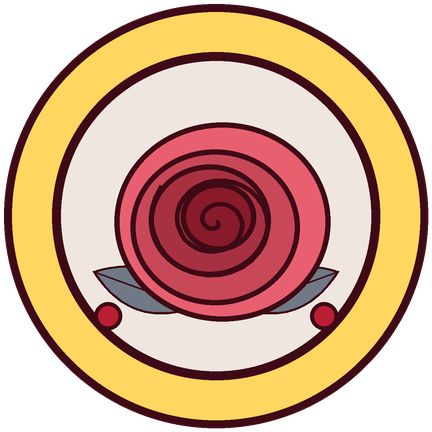
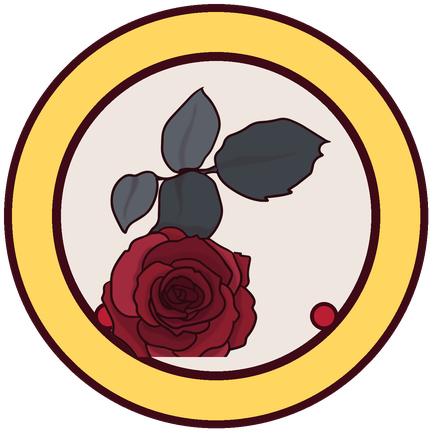
Added rose and emotes

Changed region(s): [[0.2106, 0.1806, 0.7824, 0.8426]]

diff --git a/index.html b/index.html
@@ -6251,6 +6251,18 @@
           "position": 392,
           "item": {
             "@type": "ImageObject",
+            "name": "Snake light2 (Emotes)",
+            "contentUrl": "https://petalsofiron.github.io/Seviath/images/twitch/Snake/Emotes/light2_448.png",
+            "creator": {
+              "@id": "https://petalsofiron.github.io/Seviath/#person"
+            }
+          }
+        },
+        {
+          "@type": "ListItem",
+          "position": 393,
+          "item": {
+            "@type": "ImageObject",
             "name": "Snake scale shine (Emotes)",
             "contentUrl": "https://petalsofiron.github.io/Seviath/images/twitch/Snake/Emotes/scale_shine_448.png",
             "creator": {
@@ -6260,7 +6272,7 @@
         },
         {
           "@type": "ListItem",
-          "position": 393,
+          "position": 394,
           "item": {
             "@type": "ImageObject",
             "name": "Snake shed skin (Emotes)",
@@ -6272,23 +6284,11 @@
         },
         {
           "@type": "ListItem",
-          "position": 394,
+          "position": 395,
           "item": {
             "@type": "ImageObject",
             "name": "Snake sun nap (Emotes)",
             "contentUrl": "https://petalsofiron.github.io/Seviath/images/twitch/Snake/Emotes/sun_nap_448.gif",
-            "creator": {
-              "@id": "https://petalsofiron.github.io/Seviath/#person"
-            }
-          }
-        },
-        {
-          "@type": "ListItem",
-          "position": 395,
-          "item": {
-            "@type": "ImageObject",
-            "name": "Snake tongue flick (Emotes)",
-            "contentUrl": "https://petalsofiron.github.io/Seviath/images/twitch/Snake/Emotes/tongue_flick_448.png",
             "creator": {
               "@id": "https://petalsofiron.github.io/Seviath/#person"
             }
@@ -6857,6 +6857,18 @@
               "@id": "https://petalsofiron.github.io/Seviath/#person"
             }
           }
+        },
+        {
+          "@type": "ListItem",
+          "position": 443,
+          "item": {
+            "@type": "ImageObject",
+            "name": "Rose  rose cut (Rose)",
+            "contentUrl": "https://petalsofiron.github.io/Seviath/images/twitch/Rose/_rose_cut.png",
+            "creator": {
+              "@id": "https://petalsofiron.github.io/Seviath/#person"
+            }
+          }
         }
       ]
     },
@@ -7284,7 +7296,7 @@
         <h3 class="gallery-title">Channel point icons</h3>
         <div class="btn-grid">
       <a class="proj-btn" href="images/twitch/channel_points_432.png?v=941bc53c" target="_blank" rel="noopener" title="Twitch channel point icon: Channel points">Channel points</a>
-      <a class="proj-btn" href="images/twitch/channel_points_rose_432.png?v=60feb45a" target="_blank" rel="noopener" title="Twitch channel point icon: Channel points rose">Channel points rose</a>
+      <a class="proj-btn" href="images/twitch/channel_points_rose_432.png?v=5872179d" target="_blank" rel="noopener" title="Twitch channel point icon: Channel points rose">Channel points rose</a>
       <a class="proj-btn" href="images/twitch/channel_points_star_432.png?v=82fb0205" target="_blank" rel="noopener" title="Twitch channel point icon: Channel points star">Channel points star</a>
       <a class="proj-btn" href="images/twitch/Floral/Points/points_bee_432.png?v=528c81ff" target="_blank" rel="noopener" title="Twitch channel point icon: Floral points bee">Floral points bee</a>
       <a class="proj-btn" href="images/twitch/Floral/Points/points_drop_432.png?v=ce8a2789" target="_blank" rel="noopener" title="Twitch channel point icon: Floral points drop">Floral points drop</a>
@@ -7365,7 +7377,7 @@
       <a class="proj-btn" href="images/twitch/Northbeam/Overlay/overlay_frame.png?v=88d35f0a" target="_blank" rel="noopener" title="Twitch stream overlay: Northbeam overlay frame">Northbeam overlay frame</a>
       <a class="proj-btn" href="images/twitch/Perfum/Overlay/overlay_frame.png?v=8344a1bb" target="_blank" rel="noopener" title="Twitch stream overlay: Perfum overlay frame">Perfum overlay frame</a>
       <a class="proj-btn" href="images/twitch/Purple/Overlay/purple_overlay_frame.png?v=a7251d08" target="_blank" rel="noopener" title="Twitch stream overlay: Purple overlay frame">Purple overlay frame</a>
-      <a class="proj-btn" href="images/twitch/Rose/Overlay/overlay_frame.png?v=521066d1" target="_blank" rel="noopener" title="Twitch stream overlay: Rose overlay frame">Rose overlay frame</a>
+      <a class="proj-btn" href="images/twitch/Rose/Overlay/overlay_frame.png?v=607b0754" target="_blank" rel="noopener" title="Twitch stream overlay: Rose overlay frame">Rose overlay frame</a>
       <a class="proj-btn" href="images/twitch/Slash/Overlay/overlay_frame.png?v=9e7ee7ee" target="_blank" rel="noopener" title="Twitch stream overlay: Slash overlay frame">Slash overlay frame</a>
       <a class="proj-btn" href="images/twitch/Snake/Overlay/overlay_frame.png?v=f4da9004" target="_blank" rel="noopener" title="Twitch stream overlay: Snake overlay frame">Snake overlay frame</a>
       <a class="proj-btn" href="images/twitch/Strikeline/Overlay/overlay_frame.png?v=cf4b267d" target="_blank" rel="noopener" title="Twitch stream overlay: Strikeline overlay frame">Strikeline overlay frame</a>
@@ -7380,14 +7392,14 @@
       <a class="proj-btn" href="images/twitch/Badges/3month_432.png?v=33b65604" target="_blank" rel="noopener" title="Twitch subscriber badge: 3 month">3 month</a>
       <a class="proj-btn" href="images/twitch/Badges/6month_432.png?v=35d747e4" target="_blank" rel="noopener" title="Twitch subscriber badge: 6 month">6 month</a>
       <a class="proj-btn" href="images/twitch/Badges/9month_432.png?v=272ed4e0" target="_blank" rel="noopener" title="Twitch subscriber badge: 9 month">9 month</a>
-      <a class="proj-btn" href="images/twitch/Badges/1year_432.png?v=3a0d2492" target="_blank" rel="noopener" title="Twitch subscriber badge: 1 year">1 year</a>
-      <a class="proj-btn" href="images/twitch/Badges/1_5year_432.png?v=70b6e759" target="_blank" rel="noopener" title="Twitch subscriber badge: 1.5 year">1.5 year</a>
-      <a class="proj-btn" href="images/twitch/Badges/2year_432.png?v=bb0c9e7e" target="_blank" rel="noopener" title="Twitch subscriber badge: 2 year">2 year</a>
-      <a class="proj-btn" href="images/twitch/Badges/2_5year_432.png?v=73f71535" target="_blank" rel="noopener" title="Twitch subscriber badge: 2.5 year">2.5 year</a>
-      <a class="proj-btn" href="images/twitch/Badges/3year_432.png?v=73f71535" target="_blank" rel="noopener" title="Twitch subscriber badge: 3 year">3 year</a>
-      <a class="proj-btn" href="images/twitch/Badges/3_5year_432.png?v=0bc9ffaf" target="_blank" rel="noopener" title="Twitch subscriber badge: 3.5 year">3.5 year</a>
-      <a class="proj-btn" href="images/twitch/Badges/4year_432.png?v=301eaa33" target="_blank" rel="noopener" title="Twitch subscriber badge: 4 year">4 year</a>
-      <a class="proj-btn" href="images/twitch/Badges/4_5year_432.png?v=e26e3e9c" target="_blank" rel="noopener" title="Twitch subscriber badge: 4.5 year">4.5 year</a>
+      <a class="proj-btn" href="images/twitch/Badges/1year_432.png?v=3a545b2d" target="_blank" rel="noopener" title="Twitch subscriber badge: 1 year">1 year</a>
+      <a class="proj-btn" href="images/twitch/Badges/1_5year_432.png?v=003f132c" target="_blank" rel="noopener" title="Twitch subscriber badge: 1.5 year">1.5 year</a>
+      <a class="proj-btn" href="images/twitch/Badges/2year_432.png?v=b7485c38" target="_blank" rel="noopener" title="Twitch subscriber badge: 2 year">2 year</a>
+      <a class="proj-btn" href="images/twitch/Badges/2_5year_432.png?v=bc85ae3b" target="_blank" rel="noopener" title="Twitch subscriber badge: 2.5 year">2.5 year</a>
+      <a class="proj-btn" href="images/twitch/Badges/3year_432.png?v=bc85ae3b" target="_blank" rel="noopener" title="Twitch subscriber badge: 3 year">3 year</a>
+      <a class="proj-btn" href="images/twitch/Badges/3_5year_432.png?v=fe42c7b2" target="_blank" rel="noopener" title="Twitch subscriber badge: 3.5 year">3.5 year</a>
+      <a class="proj-btn" href="images/twitch/Badges/4year_432.png?v=73893cdb" target="_blank" rel="noopener" title="Twitch subscriber badge: 4 year">4 year</a>
+      <a class="proj-btn" href="images/twitch/Badges/4_5year_432.png?v=73893cdb" target="_blank" rel="noopener" title="Twitch subscriber badge: 4.5 year">4.5 year</a>
       <a class="proj-btn" href="images/twitch/Floral/Badges/1year_432.png?v=764f8bca" target="_blank" rel="noopener" title="Twitch subscriber badge: Floral 1 year">Floral 1 year</a>
       <a class="proj-btn" href="images/twitch/Floral/Badges/2year_432.png?v=24a96247" target="_blank" rel="noopener" title="Twitch subscriber badge: Floral 2 year">Floral 2 year</a>
       <a class="proj-btn" href="images/twitch/Floral/Badges/3month_432.png?v=1eba15fc" target="_blank" rel="noopener" title="Twitch subscriber badge: Floral 3 month">Floral 3 month</a>
@@ -7481,8 +7493,8 @@
       <a class="proj-btn" href="images/twitch/Strikeline/Flair/tier3_flair_432.png?v=2e385617" target="_blank" rel="noopener" title="Twitch chat flair: Strikeline tier3 flair">Strikeline tier3 flair</a>
       <a class="proj-btn" href="images/twitch/Tessel/Flair/tier2_flair_432.png?v=33b426b3" target="_blank" rel="noopener" title="Twitch chat flair: Tessel tier2 flair">Tessel tier2 flair</a>
       <a class="proj-btn" href="images/twitch/Tessel/Flair/tier3_flair_432.png?v=7852c375" target="_blank" rel="noopener" title="Twitch chat flair: Tessel tier3 flair">Tessel tier3 flair</a>
-      <a class="proj-btn" href="images/twitch/Flair/tier2_flair_432.png?v=618cc4fe" target="_blank" rel="noopener" title="Twitch chat flair: Tier2 flair">Tier2 flair</a>
-      <a class="proj-btn" href="images/twitch/Flair/tier3_flair_432.png?v=0358e520" target="_blank" rel="noopener" title="Twitch chat flair: Tier3 flair">Tier3 flair</a>
+      <a class="proj-btn" href="images/twitch/Flair/tier2_flair_432.png?v=a2e38e25" target="_blank" rel="noopener" title="Twitch chat flair: Tier2 flair">Tier2 flair</a>
+      <a class="proj-btn" href="images/twitch/Flair/tier3_flair_432.png?v=50ae6ad7" target="_blank" rel="noopener" title="Twitch chat flair: Tier3 flair">Tier3 flair</a>
     </div>
         <h3 class="gallery-title">Starting soon screen</h3>
         <div class="btn-grid">
@@ -7492,7 +7504,7 @@
       <a class="proj-btn" href="images/twitch/Northbeam/Screens/starting_soon.png?v=bb77082c" target="_blank" rel="noopener" title="Twitch starting soon screen: Northbeam starting soon">Northbeam starting soon</a>
       <a class="proj-btn" href="images/twitch/Perfum/Screens/starting_soon.png?v=c049fc5a" target="_blank" rel="noopener" title="Twitch starting soon screen: Perfum starting soon">Perfum starting soon</a>
       <a class="proj-btn" href="images/twitch/Purple/Screens/starting_soon.png?v=b0d66def" target="_blank" rel="noopener" title="Twitch starting soon screen: Purple starting soon">Purple starting soon</a>
-      <a class="proj-btn" href="images/twitch/Rose/Screens/starting_soon.png?v=57f7db6e" target="_blank" rel="noopener" title="Twitch starting soon screen: Rose starting soon">Rose starting soon</a>
+      <a class="proj-btn" href="images/twitch/Rose/Screens/starting_soon.png?v=995f1e4c" target="_blank" rel="noopener" title="Twitch starting soon screen: Rose starting soon">Rose starting soon</a>
       <a class="proj-btn" href="images/twitch/Slash/Screens/starting_soon.png?v=41485867" target="_blank" rel="noopener" title="Twitch starting soon screen: Slash starting soon">Slash starting soon</a>
       <a class="proj-btn" href="images/twitch/Snake/Screens/snake_starting_soon.png?v=93d3d4d4" target="_blank" rel="noopener" title="Twitch starting soon screen: Snake starting soon">Snake starting soon</a>
       <a class="proj-btn" href="images/twitch/Strikeline/Screens/starting_soon.png?v=4055948b" target="_blank" rel="noopener" title="Twitch starting soon screen: Strikeline starting soon">Strikeline starting soon</a>
@@ -7506,7 +7518,7 @@
       <a class="proj-btn" href="images/twitch/Northbeam/Screens/be_right_back.png?v=dae5a8fb" target="_blank" rel="noopener" title="Twitch be right back screen: Northbeam be right back">Northbeam be right back</a>
       <a class="proj-btn" href="images/twitch/Perfum/Screens/be_right_back.png?v=93046b5e" target="_blank" rel="noopener" title="Twitch be right back screen: Perfum be right back">Perfum be right back</a>
       <a class="proj-btn" href="images/twitch/Purple/Screens/be_right_back.png?v=fd0c8de1" target="_blank" rel="noopener" title="Twitch be right back screen: Purple be right back">Purple be right back</a>
-      <a class="proj-btn" href="images/twitch/Rose/Screens/be_right_back.png?v=d956c92f" target="_blank" rel="noopener" title="Twitch be right back screen: Rose be right back">Rose be right back</a>
+      <a class="proj-btn" href="images/twitch/Rose/Screens/be_right_back.png?v=f4a7a738" target="_blank" rel="noopener" title="Twitch be right back screen: Rose be right back">Rose be right back</a>
       <a class="proj-btn" href="images/twitch/Slash/Screens/be_right_back.png?v=adc13e01" target="_blank" rel="noopener" title="Twitch be right back screen: Slash be right back">Slash be right back</a>
       <a class="proj-btn" href="images/twitch/Snake/Screens/be_right_back.png?v=6264ebf8" target="_blank" rel="noopener" title="Twitch be right back screen: Snake be right back">Snake be right back</a>
       <a class="proj-btn" href="images/twitch/Strikeline/Screens/be_right_back.png?v=55122707" target="_blank" rel="noopener" title="Twitch be right back screen: Strikeline be right back">Strikeline be right back</a>
@@ -7520,7 +7532,7 @@
       <a class="proj-btn" href="images/twitch/Northbeam/Screens/offline.png?v=fc3b0bed" target="_blank" rel="noopener" title="Twitch offline screen: Northbeam offline">Northbeam offline</a>
       <a class="proj-btn" href="images/twitch/Perfum/Screens/offline.png?v=f0876b29" target="_blank" rel="noopener" title="Twitch offline screen: Perfum offline">Perfum offline</a>
       <a class="proj-btn" href="images/twitch/Purple/Screens/offline.png?v=9058a8cd" target="_blank" rel="noopener" title="Twitch offline screen: Purple offline">Purple offline</a>
-      <a class="proj-btn" href="images/twitch/Rose/Screens/offline.png?v=d1053fe7" target="_blank" rel="noopener" title="Twitch offline screen: Rose offline">Rose offline</a>
+      <a class="proj-btn" href="images/twitch/Rose/Screens/offline.png?v=6a8b746a" target="_blank" rel="noopener" title="Twitch offline screen: Rose offline">Rose offline</a>
       <a class="proj-btn" href="images/twitch/Slash/Screens/offline.png?v=4c2b9922" target="_blank" rel="noopener" title="Twitch offline screen: Slash offline">Slash offline</a>
       <a class="proj-btn" href="images/twitch/Snake/Screens/offline.png?v=04cb868e" target="_blank" rel="noopener" title="Twitch offline screen: Snake offline">Snake offline</a>
       <a class="proj-btn" href="images/twitch/Strikeline/Screens/offline.png?v=ccbdffcc" target="_blank" rel="noopener" title="Twitch offline screen: Strikeline offline">Strikeline offline</a>
@@ -7619,10 +7631,10 @@
       <a class="proj-btn" href="images/twitch/Snake/Emotes/egg_hatch_448.gif?v=f7f064a9" target="_blank" rel="noopener" title="Twitch emote: Snake egg hatch">Snake egg hatch (animated)</a>
       <a class="proj-btn" href="images/twitch/Snake/Emotes/gg_snake_448.png?v=b7171a93" target="_blank" rel="noopener" title="Twitch emote: Snake gg snake">Snake gg snake</a>
       <a class="proj-btn" href="images/twitch/Snake/Emotes/light_448.gif?v=fddd58b3" target="_blank" rel="noopener" title="Twitch emote: Snake light">Snake light (animated)</a>
+      <a class="proj-btn" href="images/twitch/Snake/Emotes/light2_448.png?v=322d0527" target="_blank" rel="noopener" title="Twitch emote: Snake light2">Snake light2</a>
       <a class="proj-btn" href="images/twitch/Snake/Emotes/scale_shine_448.png?v=5c1eba6d" target="_blank" rel="noopener" title="Twitch emote: Snake scale shine">Snake scale shine</a>
       <a class="proj-btn" href="images/twitch/Snake/Emotes/shed_skin_448.png?v=6550c2cc" target="_blank" rel="noopener" title="Twitch emote: Snake shed skin">Snake shed skin</a>
       <a class="proj-btn" href="images/twitch/Snake/Emotes/sun_nap_448.gif?v=f74e3eec" target="_blank" rel="noopener" title="Twitch emote: Snake sun nap">Snake sun nap (animated)</a>
-      <a class="proj-btn" href="images/twitch/Snake/Emotes/tongue_flick_448.png?v=83cabc8e" target="_blank" rel="noopener" title="Twitch emote: Snake tongue flick">Snake tongue flick</a>
       <a class="proj-btn" href="images/twitch/Snake/Emotes/venom_448.png?v=ca75725e" target="_blank" rel="noopener" title="Twitch emote: Snake venom">Snake venom</a>
       <a class="proj-btn" href="images/twitch/Emotes/sparkly_448.png?v=f83cdda8" target="_blank" rel="noopener" title="Twitch emote: Sparkly">Sparkly</a>
       <a class="proj-btn" href="images/twitch/Strikeline/Emotes/captain_448.png?v=29c7662c" target="_blank" rel="noopener" title="Twitch emote: Strikeline captain">Strikeline captain</a>

diff --git a/tools/make_rose.py b/tools/make_rose.py
@@ -136,25 +136,31 @@ def panel(title, symbol):
 
 # ------------------------------------------------------------------------------------------------- roses
 
+_ROSE_CACHE = {}
+
+
+def user_rose(leaves):
+    """The user's own rose drawing (cut from images/Roselogo1.png); with or without its leaves."""
+    if leaves not in _ROSE_CACHE:
+        full = Image.open(ROOT / "images" / "twitch" / "Rose" / "_rose_cut.png").convert("RGBA")
+        if leaves:
+            _ROSE_CACHE[leaves] = full
+        else:
+            w, h = full.size
+            only = full.crop((0, int(h * 0.50), int(w * 0.70), h))
+            _ROSE_CACHE[leaves] = only.crop(only.split()[3].point(lambda v: 255 if v > 20 else 0).getbbox())
+    return _ROSE_CACHE[leaves]
+
+
 def rose(d, S, cx, cy, r, layers=5, leaves=True, pal=None):
-    c_light, c_dark = pal if pal else (RED_L, RED_D)
-    if leaves:
-        leaf(d, S, cx - r * 0.2, cy + r * 0.8, r * 1.0, r * 0.2, math.radians(-160), lw=int(r * 0.07))
-        leaf(d, S, cx + r * 0.2, cy + r * 0.8, r * 1.0, r * 0.2, math.radians(-20), lw=int(r * 0.07))
-    for i in range(layers):
-        k = 1 - i / (layers + 0.6)
-        rr = r * k
-        col = lerp(c_light, c_dark, i / max(1, layers - 1) * 0.85)
-        ox, oy = math.cos(i * 1.7) * r * 0.06, math.sin(i * 1.7) * r * 0.05
-        d.ellipse(((cx + ox - rr) * S, (cy + oy - rr * 0.92) * S, (cx + ox + rr) * S, (cy + oy + rr * 0.92) * S),
-                  fill=col + (255,), outline=INK + (255,), width=max(1, int(r * 0.05 * S)))
-    pts = []
-    for i in range(80):
-        t = i / 79
-        a = t * 5.2 * math.pi
-        rr = r * 0.62 * t
-        pts.append(((cx + math.cos(a) * rr) * S, (cy + math.sin(a) * rr * 0.92) * S))
-    d.line(pts, fill=INK + (255,), width=max(1, int(r * 0.045 * S)), joint="curve")
+    im = user_rose(leaves)
+    h = 2.5 * r * S if leaves else 2.0 * r * S
+    k = h / im.height
+    img = im.resize((max(1, round(im.width * k)), max(1, round(im.height * k))), Image.LANCZOS)
+    if pal is not None:   # gold variant for the highest badge
+        tint = Image.new("RGBA", img.size, (255, 214, 96, 255))
+        img = Image.blend(img.convert("RGB"), tint.convert("RGB"), 0.0).convert("RGBA") if False else img
+    d._image.alpha_composite(img, (int(cx * S - img.width / 2), int(cy * S - img.height / 2)))
 
 
 def tulip(d, S, cx, cy, r):

diff --git a/tools/make_rose_extras.py b/tools/make_rose_extras.py
@@ -32,18 +32,17 @@ def paper(size):
 
 def screen(title, lines, mood, extra, side):
     img = paper((W, H))
-    def _fn(d, S):
-        mr.leaf(d, S, 300, 470, 200, 46, math.radians(-150), lw=9)
-        mr.leaf(d, S, 300, 470, 200, 46, math.radians(-30), lw=9)
-        mr.rose(d, S, 300, 270, 190, layers=6, leaves=False)
-    hero = mr.layer((600, 600), _fn)
+    ur = mr.user_rose(True)
+    hh = 500 if side == 'center' else 640
+    k = hh / ur.height
+    hero = ur.resize((round(ur.width * k), hh), Image.LANCZOS)
     lay = Image.new("RGBA", (W, H), (0, 0, 0, 0))
     hx = 190 if side == "left" else W - 790 if side == "right" else (W - 600) // 2
-    lay.alpha_composite(hero, (hx, 200 if side == "center" else 230))
+    lay.alpha_composite(hero, (hx + (600 - hero.width) // 2, 130 if side == "center" else 220))
     img = shadow(img, lay.split()[3], (0, 14), 20, (60, 10, 20), 0.3)
     img = Image.alpha_composite(img, lay)
     cx = W - 520 if side == "left" else 520 if side == "right" else W / 2
-    cy = 520 if side != "center" else 860
+    cy = 520 if side != "center" else 800
     sz = 150
     probe = ImageDraw.Draw(Image.new("L", (10, 10)))
     while sz > 60 and probe.textlength(title, font=font("georgiab.ttf", sz)) / SS > 860:
@@ -65,8 +64,9 @@ def overlay():
     d.rounded_rectangle((52, 52, W - 52, H - 52), radius=36, outline=mr.RED + (255,), width=6)
     img = Image.alpha_composite(img, leafy_border((W, H), 170, 1.1))
     for (x, y) in ((140, 130), (W - 140, 130), (W - 140, H - 130)):
-        r = mr.layer((260, 260), lambda dd, S: mr.rose(dd, S, 130, 130, 110, layers=4))
-        img.alpha_composite(r, (x - 130, y - 130))
+        r = mr.user_rose(False)
+        r = r.resize((250, round(250 * r.height / r.width)), Image.LANCZOS)
+        img.alpha_composite(r, (x - 125, y - r.height // 2))
     cx0, cy0, cx1, cy1 = 90, H - 90 - 300, 90 + 533, H - 90
     cut = Image.new("L", (W, H), 255)
     ImageDraw.Draw(cut).rounded_rectangle((cx0, cy0, cx1, cy1), radius=30, fill=0)

diff --git a/tools/make_emotes2.py b/tools/make_emotes2.py
@@ -14,7 +14,7 @@ import make_redo as rd
 TW = ROOT / "images" / "twitch"
 
 
-def base_emote(C, kind, with_art, size):
+def base_emote(C, kind, with_art, size, light=False):
     big = 448
     img = Image.new("RGBA", (big, big), (0, 0, 0, 0))
     if with_art:
@@ -34,6 +34,16 @@ def base_emote(C, kind, with_art, size):
         sh.alpha_composite(pr, (44, 52))
         img = shadow(img, sh.split()[3], (0, 8), 8, (0, 0, 0), 0.4)
         img.alpha_composite(pr, (44, 44))
+    if light:   # a warm light behind the emote with a few sparkles
+        glow_l = Image.new("RGBA", (big, big), (0, 0, 0, 0))
+        ImageDraw.Draw(glow_l).ellipse((10, 10, big - 10, big - 10), fill=(255, 240, 170, 150))
+        glow_l = glow_l.filter(ImageFilter.GaussianBlur(40))
+        out = Image.alpha_composite(glow_l, img)
+        d = ImageDraw.Draw(out)
+        import make_rose as _mr
+        for (sx_, sy_, sr) in ((70, 70, 30), (big - 70, 90, 24), (big - 60, big - 110, 20), (60, big - 90, 18)):
+            _mr.sparkle(d, 1, sx_, sy_, sr, fill=(255, 244, 190))
+        return out
     return img
 
 
@@ -61,7 +71,7 @@ def build(name):
         shutil.rmtree(out)
     out.mkdir(parents=True)
     for i, (fn_, mood, kind, anim) in enumerate(me.THEMES[name]):
-        base = base_emote(C, kind, with_art=(i % 3 == 0 and C["mascot"] != "slash"), size=448)
+        base = base_emote(C, kind, with_art=(i % 3 == 0 and C["mascot"] != "slash"), size=448, light=fn_.startswith("light2"))
         for size in (448, 112, 56, 28):
             if anim:
                 frames = [frame(base, k / 20, anim).resize((size, size), Image.LANCZOS) for k in range(20)]

diff --git a/tools/make_emotes.py b/tools/make_emotes.py
@@ -32,7 +32,7 @@ THEMES = {
               ("knocked_out", "cry", "stars", None), ("rage", "angry", "flame", None), ("gg_slash", "smile", "gg", "sway")],
     "Snake": [("hype", "party", "sun", "bounce"), ("light", "angry", "tongue", "shake"), ("coil_hug", "lovely", "heart", None), ("shed_skin", "surprise", "leaf", None),
               ("sun_nap", "sleepy", "sun", "sway"), ("egg_hatch", "party", "egg", "bounce"), ("venom", "mad", "drop", None),
-              ("scale_shine", "cool", "star", None), ("tongue_flick", "laughing", "tongue", None), ("gg_snake", "smile", "gg", None)],
+              ("scale_shine", "cool", "star", None), ("light2", "laughing", "tongue", None), ("gg_snake", "smile", "gg", None)],
     "Floral": [("hype", "party", "flower", "bounce"), ("bloom", "joyful", "flower", "bounce"), ("petal_rain", "lovely", "petals", None), ("bee", "smile", "bee", "sway"),
                ("water_me", "cry", "drop", None), ("sunbathe", "cool", "sun", None), ("bouquet", "party", "bouquet", None),
                ("sleepy_bud", "sleepy", "moon", None), ("wilted", "sad", "leaf", None), ("gg_flower", "laughing", "gg", None)],
